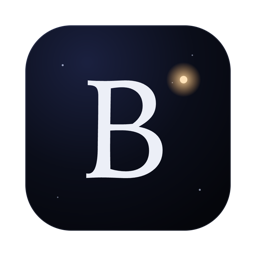
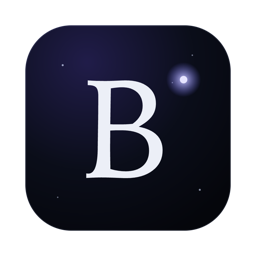
Download page from ab3f3ac

Changed region(s): [[0.6562, 0.25, 0.7812, 0.375]]

diff --git a/index.html b/index.html
@@ -17,7 +17,7 @@
     --sky: #04050a; --ink: #eef1f8; --muted: #9097ad; --faint: #5f667d;
     --line: rgba(190, 205, 255, 0.11); --line-strong: rgba(190, 205, 255, 0.2);
     --panel: rgba(16, 19, 30, 0.72); --panel-solid: #0e111b;
-    --warm: #ffb15c; --blue: #7ea2ff; --green: #6ee7a8; --rose: #fb8fa3;
+    --warm: #a5a3ff; --blue: #7ea2ff; --green: #6ee7a8; --rose: #fb8fa3;
     --serif: "Instrument Serif", ui-serif, Georgia, serif;
     --sans: Inter, -apple-system, BlinkMacSystemFont, "Segoe UI", sans-serif;
     --mono: "JetBrains Mono", ui-monospace, "SF Mono", Menlo, Consolas, monospace;
@@ -26,14 +26,14 @@
   html { scroll-behavior: smooth; }
   body { margin: 0; background: var(--sky); color: var(--ink); font-family: var(--sans); line-height: 1.6; -webkit-font-smoothing: antialiased; overflow-x: hidden; }
   a { color: inherit; }
-  ::selection { background: rgba(255, 177, 92, 0.3); }
+  ::selection { background: rgba(139, 136, 240, 0.3); }
   .wrap { max-width: 1160px; margin: 0 auto; padding: 0 24px; }
 
   /* The sky */
   #sky { position: fixed; inset: 0; width: 100%; height: 100%; z-index: 0; pointer-events: none; }
   .glow { position: fixed; inset: 0; z-index: 0; pointer-events: none;
     background: radial-gradient(55% 45% at 20% -5%, rgba(70, 95, 200, 0.32), transparent 70%),
-                radial-gradient(35% 35% at 88% 8%, rgba(255, 177, 92, 0.1), transparent 70%); }
+                radial-gradient(35% 35% at 88% 8%, rgba(139, 136, 240, 0.14), transparent 70%); }
   main, nav, footer { position: relative; z-index: 1; }
 
   /* Nav */
@@ -51,10 +51,10 @@
   /* Hero */
   .hero { text-align: center; padding-top: 96px; padding-bottom: 40px; }
   .badge { display: inline-flex; align-items: center; gap: 10px; padding: 6px 14px 6px 8px; border: 1px solid var(--line-strong); border-radius: 999px; font-size: 13px; color: var(--muted); background: rgba(255,255,255,0.02); }
-  .badge b { font-weight: 600; font-size: 11px; letter-spacing: 0.08em; text-transform: uppercase; padding: 3px 8px; border-radius: 999px; background: rgba(255, 177, 92, 0.14); color: var(--warm); }
+  .badge b { font-weight: 600; font-size: 11px; letter-spacing: 0.08em; text-transform: uppercase; padding: 3px 8px; border-radius: 999px; background: rgba(139, 136, 240, 0.14); color: var(--warm); }
   h1 { font-family: var(--serif); font-weight: 400; font-size: clamp(56px, 10.5vw, 132px); line-height: 0.95; letter-spacing: -0.025em; margin: 28px 0 0; }
   h1 .line { display: block; }
-  h1 em { font-style: italic; background: linear-gradient(100deg, #ffd6a0 10%, var(--warm) 45%, #ff8f6b 90%); -webkit-background-clip: text; background-clip: text; color: transparent; padding-right: 0.06em; }
+  h1 em { font-style: italic; background: linear-gradient(100deg, #dcdaff 10%, var(--warm) 45%, #6e6cf0 90%); -webkit-background-clip: text; background-clip: text; color: transparent; padding-right: 0.06em; }
   .word { display: inline-block; opacity: 0; transform: translateY(0.35em); filter: blur(12px); animation: rise 1.1s cubic-bezier(.2,.7,.1,1) forwards; }
   @keyframes rise { to { opacity: 1; transform: none; filter: blur(0); } }
   .lede { max-width: 640px; margin: 30px auto 0; font-size: clamp(17px, 2vw, 20px); color: var(--muted); opacity: 0; animation: fade 1.2s .9s forwards; }
@@ -136,7 +136,7 @@
   @media (max-width: 560px) { .team { grid-template-columns: 1fr; } }
   .team .av { width: 44px; height: 44px; border-radius: 13px; font-size: 18px; margin-bottom: 18px; }
   .team .role { font-family: var(--mono); font-size: 11.5px; color: var(--faint); letter-spacing: 0.08em; text-transform: uppercase; }
-  .callout { margin-top: 14px; display: flex; gap: 18px; align-items: center; padding: 22px 26px; border-radius: 20px; border: 1px solid rgba(255, 177, 92, 0.22); background: linear-gradient(90deg, rgba(255, 177, 92, 0.08), rgba(255, 177, 92, 0.02)); }
+  .callout { margin-top: 14px; display: flex; gap: 18px; align-items: center; padding: 22px 26px; border-radius: 20px; border: 1px solid rgba(139, 136, 240, 0.22); background: linear-gradient(90deg, rgba(139, 136, 240, 0.08), rgba(139, 136, 240, 0.02)); }
   .callout .q { font-family: var(--serif); font-size: 44px; line-height: 1; color: var(--warm); }
   .callout p { margin: 0; color: var(--muted); }
   .callout strong { color: var(--ink); font-weight: 600; }
@@ -189,7 +189,7 @@
   .block { flex: 0 0 auto; width: 178px; padding: 16px; border-radius: 16px; border: 1px solid var(--line-strong); background: var(--panel-solid); font-family: var(--mono); font-size: 11px; color: var(--faint); }
   .block b { display: block; font-family: var(--sans); font-size: 13.5px; color: var(--ink); font-weight: 600; margin-bottom: 8px; }
   .block .hash { color: var(--blue); word-break: break-all; }
-  .block.sealed { border-color: rgba(255,177,92,0.4); box-shadow: 0 0 40px rgba(255,177,92,0.12); }
+  .block.sealed { border-color: rgba(139,136,240,0.4); box-shadow: 0 0 40px rgba(139,136,240,0.12); }
   .block.sealed .hash { color: var(--warm); }
   .link { flex: 0 0 34px; height: 2px; background: linear-gradient(90deg, var(--line-strong), var(--blue)); }
   .cmd { margin-top: 18px; padding: 16px 18px; border-radius: 14px; border: 1px solid var(--line); background: rgba(0,0,0,0.4); font-family: var(--mono); font-size: 12.5px; color: var(--muted); overflow-x: auto; white-space: pre; }
@@ -230,7 +230,7 @@
   .node .card { padding: 28px 22px; }
   .node .label { font-family: var(--mono); font-size: 11px; letter-spacing: 0.16em; text-transform: uppercase; color: var(--faint); }
   .node h3 { margin-top: 10px; }
-  .node.core .card { border-color: rgba(255,177,92,0.35); box-shadow: 0 0 60px rgba(255,177,92,0.08); }
+  .node.core .card { border-color: rgba(139,136,240,0.35); box-shadow: 0 0 60px rgba(139,136,240,0.08); }
   .wire { width: 60px; height: 2px; background: repeating-linear-gradient(90deg, var(--warm) 0 6px, transparent 6px 12px); background-size: 24px 2px; animation: flow 1.2s linear infinite; opacity: .7; }
   @keyframes flow { to { background-position: 24px 0; } }
 
@@ -596,11 +596,11 @@
       if (s.x > w + 5) s.x = -5; if (s.y > h + 5) s.y = -5
       const x = s.x - sx * (10 + 50 * s.z), y = ((s.y - sy * (10 + 50 * s.z) - scroll * s.z) % (h + 10) + h + 10) % (h + 10)
       const a = (.15 + .85 * s.z) * (.55 + .45 * Math.sin(t * s.s + s.p))
-      ctx.fillStyle = s.warm ? `rgba(255,214,150,${a})` : `rgba(214,225,255,${a})`
+      ctx.fillStyle = s.warm ? `rgba(200,196,255,${a})` : `rgba(214,225,255,${a})`
       ctx.beginPath(); ctx.arc(x, y, s.r, 0, 6.283); ctx.fill()
       if (s.z > .94) {
         const g = ctx.createRadialGradient(x, y, 0, x, y, s.r * 8)
-        g.addColorStop(0, s.warm ? `rgba(255,214,150,${a * .5})` : `rgba(214,225,255,${a * .5})`); g.addColorStop(1, 'rgba(0,0,0,0)')
+        g.addColorStop(0, s.warm ? `rgba(200,196,255,${a * .5})` : `rgba(214,225,255,${a * .5})`); g.addColorStop(1, 'rgba(0,0,0,0)')
         ctx.fillStyle = g; ctx.beginPath(); ctx.arc(x, y, s.r * 8, 0, 6.283); ctx.fill()
       }
     }
